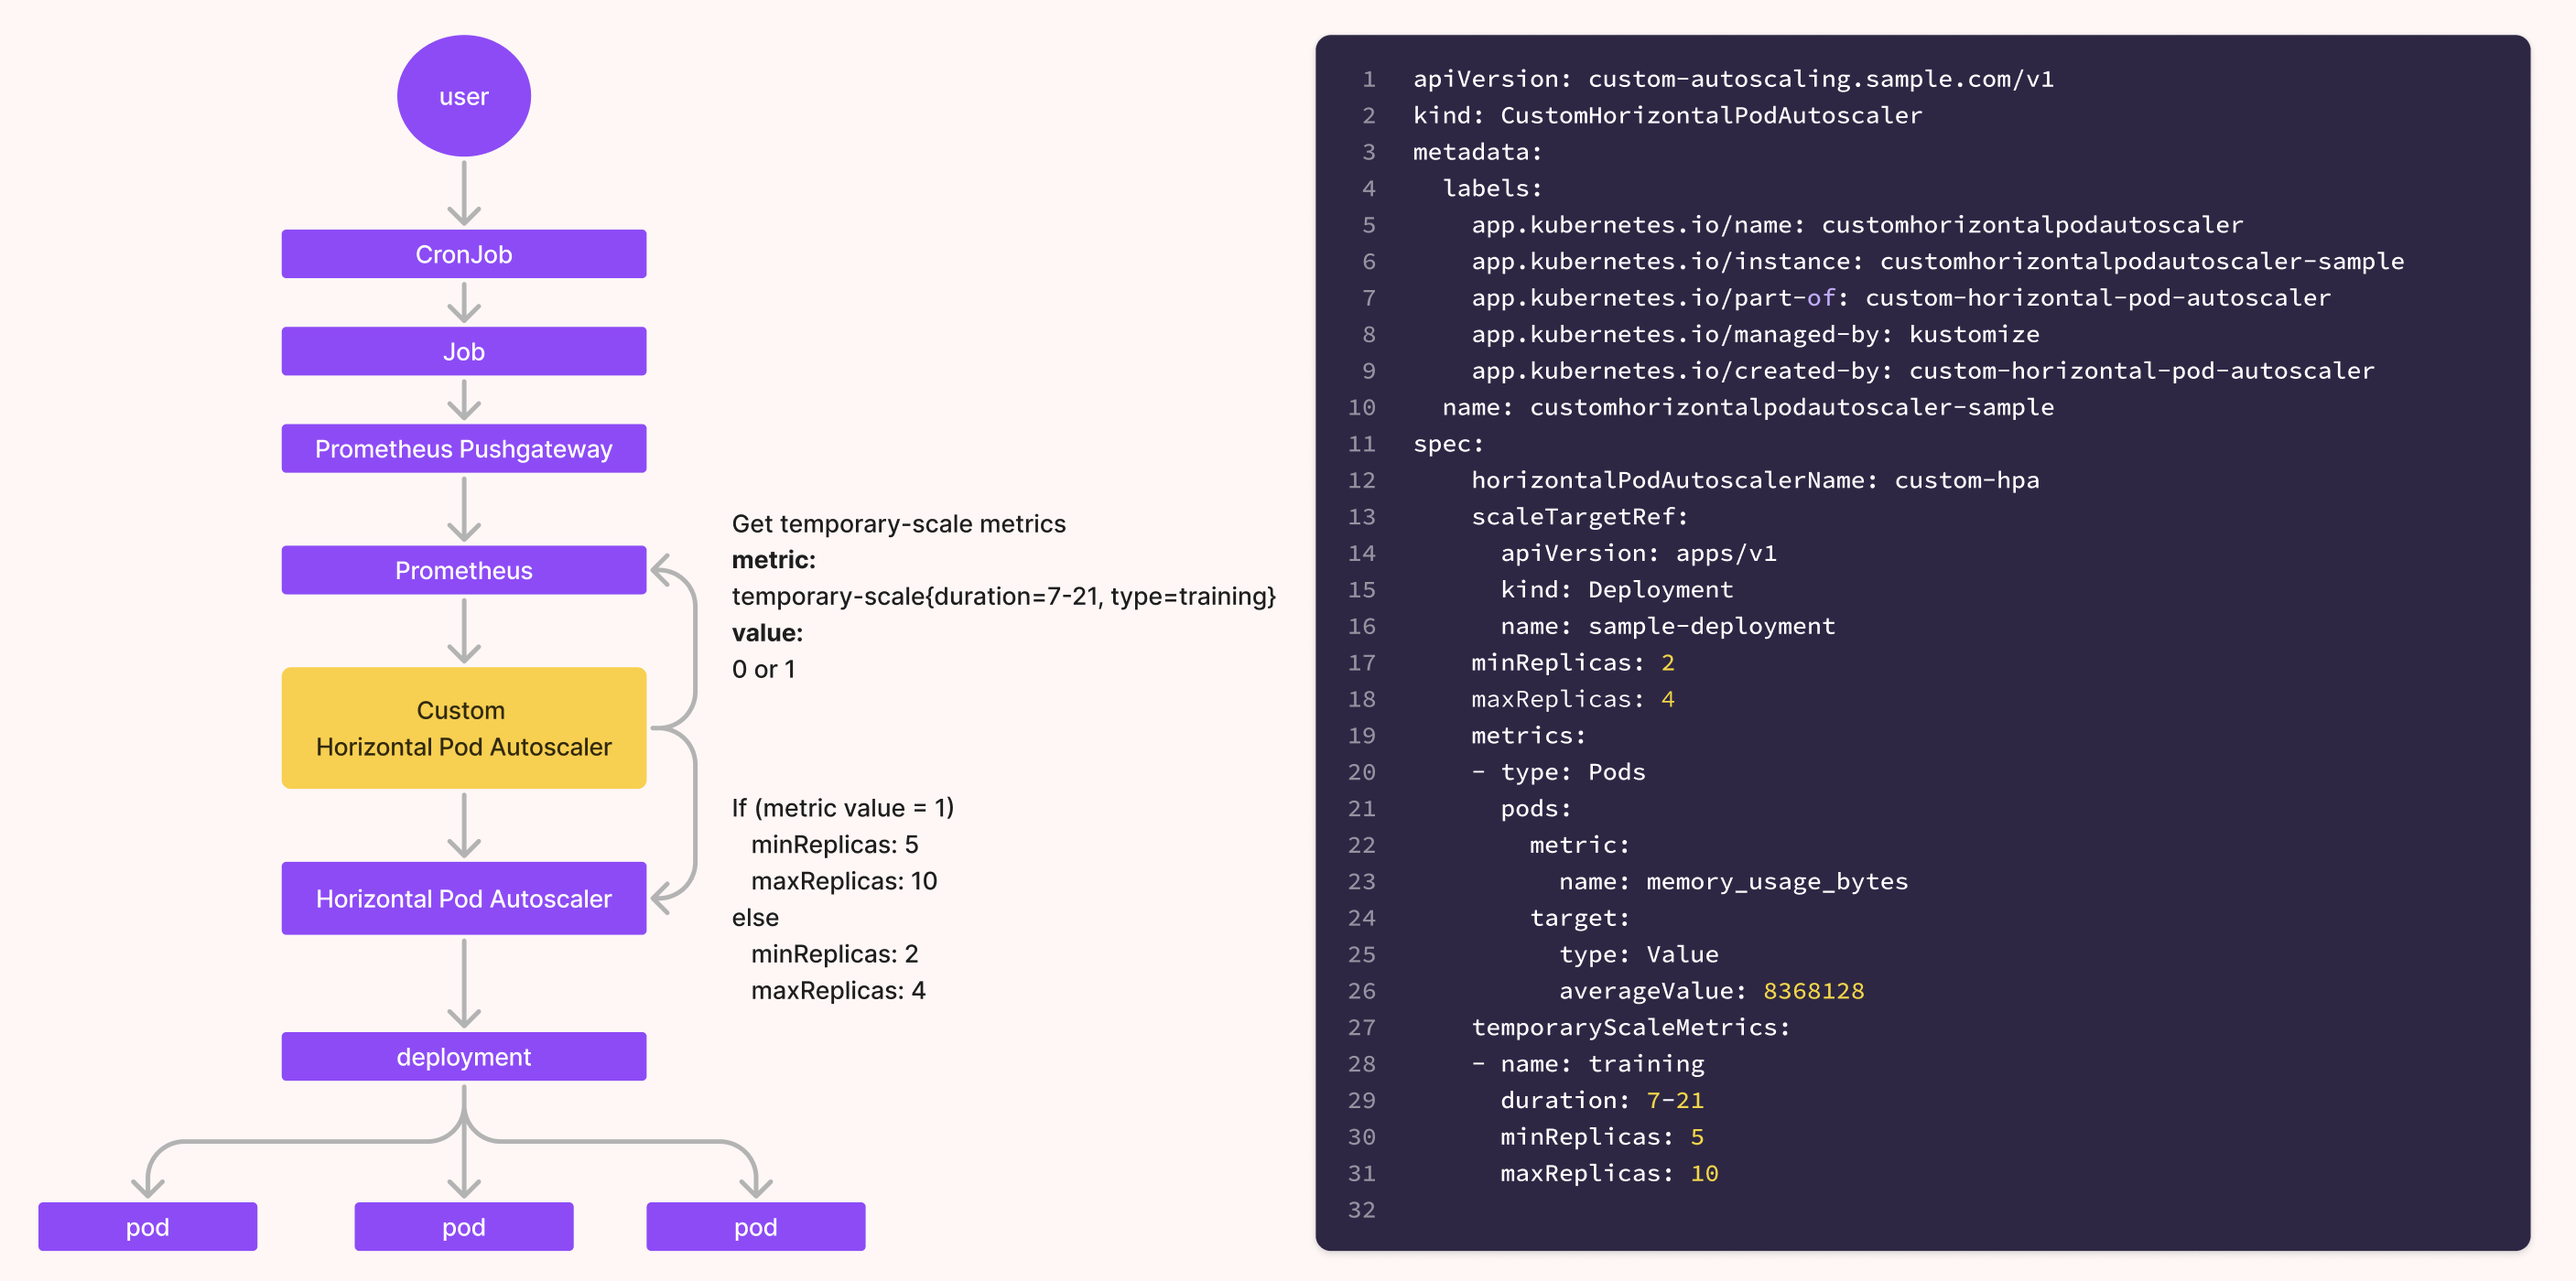
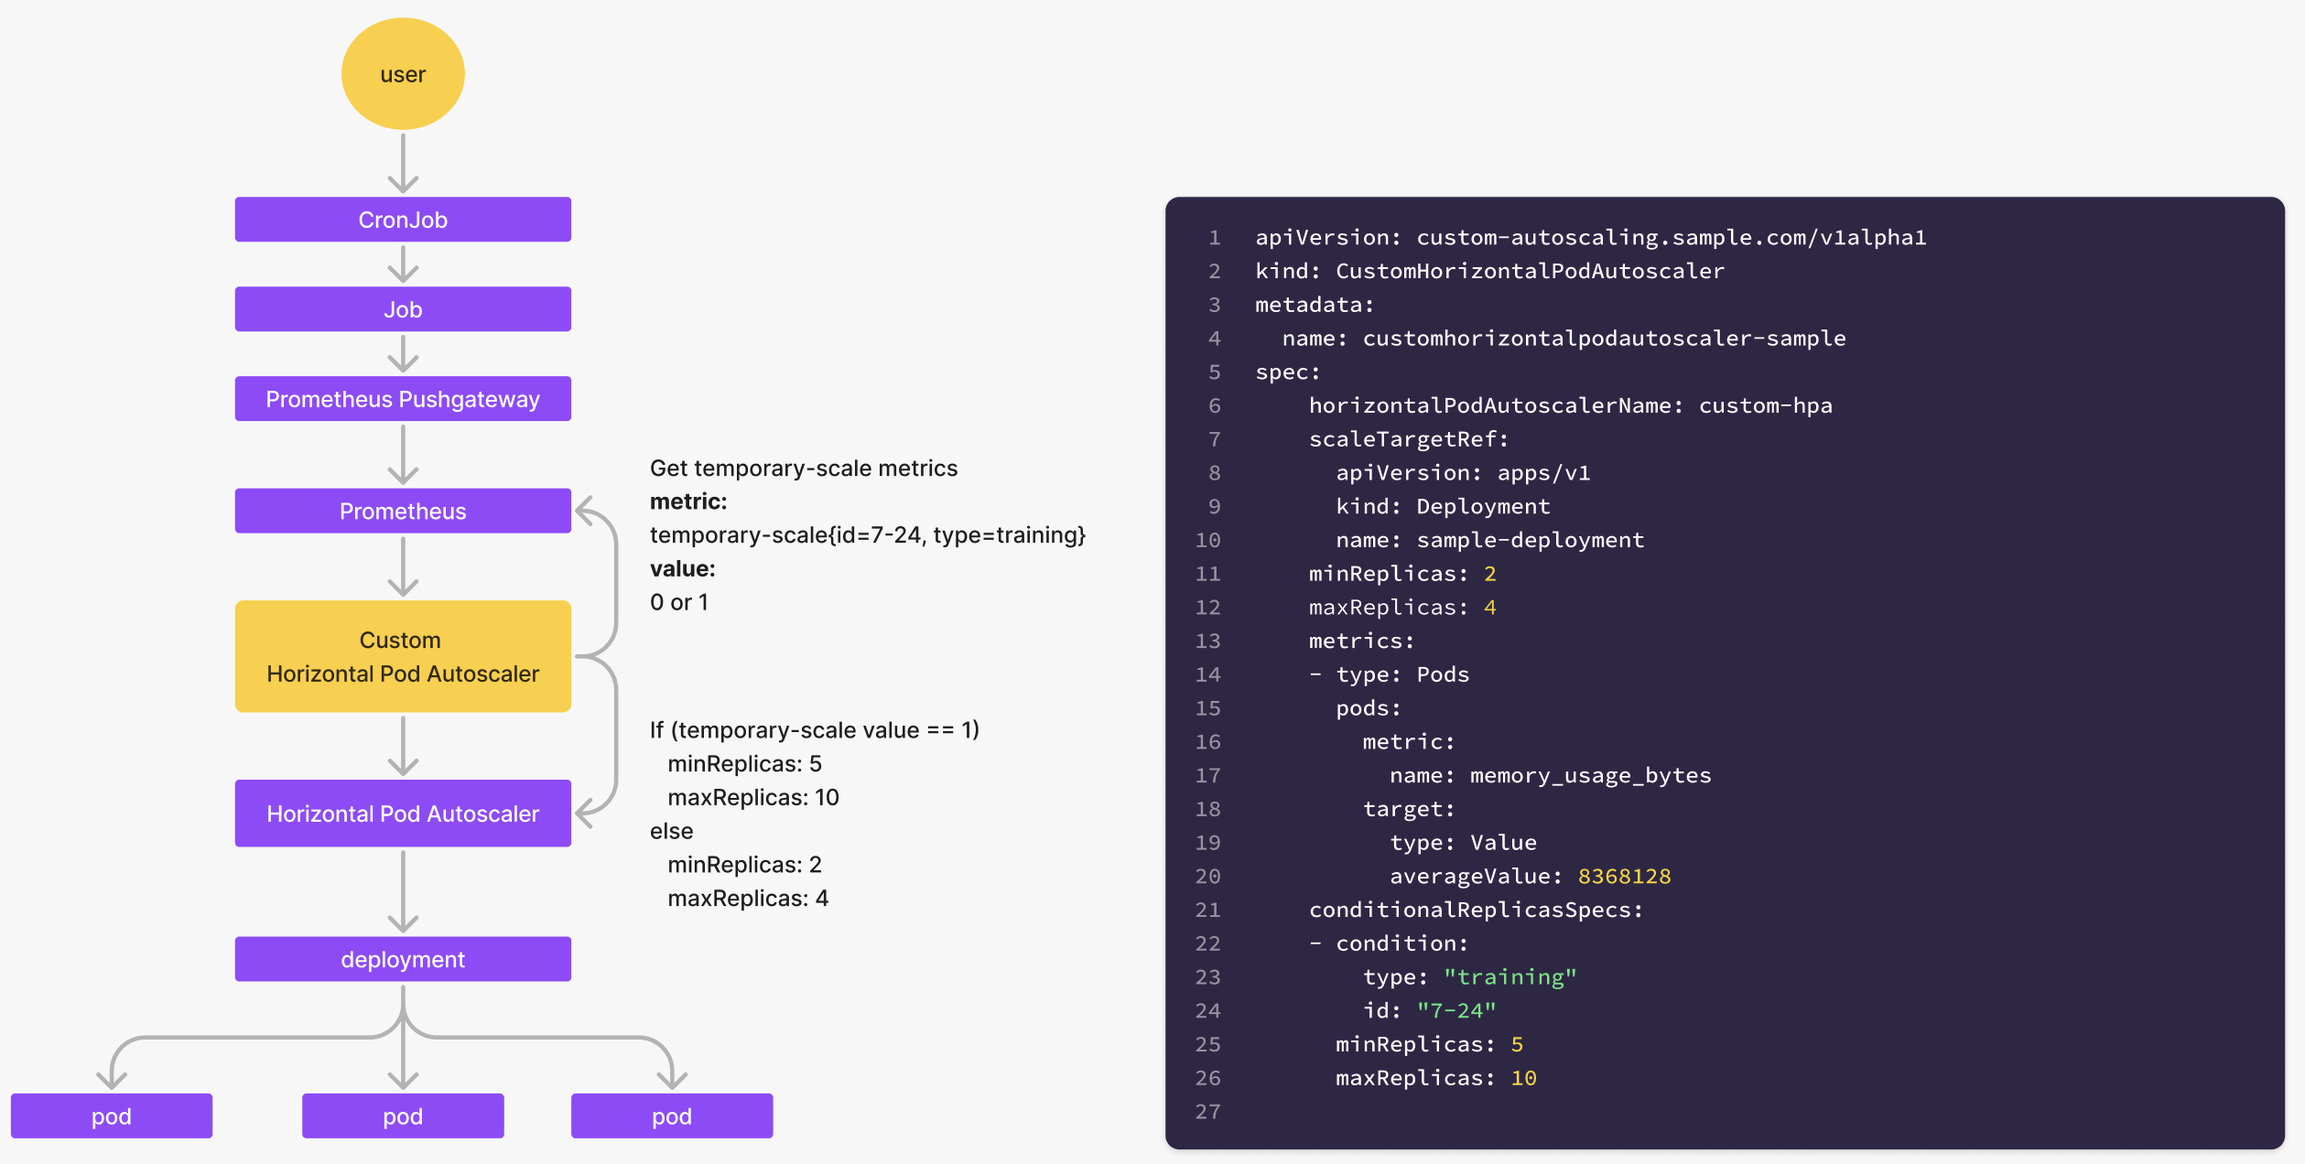
Docs/update readme (#99)

Changed region(s): [[0.0, 0.0, 0.9913, 1.0], [0.2168, 0.8892, 0.3098, 0.9811], [0.0929, 0.7972, 0.1239, 0.8585]]

diff --git a/README.md b/README.md
@@ -4,10 +4,13 @@
 ![Go Build](https://github.com/TomoyukiSugiyama/custom-horizontal-pod-autoscaler/workflows/Go%20Build/badge.svg)
 [![codecov](https://codecov.io/gh/TomoyukiSugiyama/custom-horizontal-pod-autoscaler/branch/main/graph/badge.svg?token=GHNQ0Z9TRH)](https://codecov.io/gh/TomoyukiSugiyama/custom-horizontal-pod-autoscaler)
 
-
-Custom Horizontal Pod Autoscaler is an autoscaler that allows the upper and lower limits of the number of replicas of the [Horizontal Pod Autoscaler](https://kubernetes.io/docs/tasks/run-application/horizontal-pod-autoscale/) to be changed by Prometheus metrics. It is used when temporary scaling is desired.
+Custom Horizontal Pod Autoscaler is an autoscaler that allows the minReplicas and maxReplicas of a [Horizontal Pod Autoscaler](https://kubernetes.io/docs/tasks/run-application/horizontal-pod-autoscale/) to be updated by Prometheus metrics. It is used when temporary scaling is required.
 
 ## Description
+
+The user uses CronJob to add temporary scale metrics that output 0 (disabled) or 1 (enabled). The custom horizontal pod autoscaler retrieves metrics from the prometheus.
+
+The custom horizontal pod autoscaler is set to minReplicas and maxReplicas, which are used when conditions are met. If the conditions are not met, the default minReplicas and maxReplicas will be in effect.
 
 ![description](docs/assets/description.png)
 

diff --git a/docs/architecture-diagram.md b/docs/architecture-diagram.md
@@ -1,0 +1,20 @@
+# architecture
+
+The controller consists of the following elements.
+* Custom Horizontal Pod Autoscaler: creates and updates HPAs
+* Metrics Collector: collects metrics from Prometheus
+* Syncer: Updates Desired State based on metrics
+
+Currently, only Prometheus metrics are supported.
+In the future, the configuration is designed to be easily supported by other systems besides Prometheus (Datadog, DB, ConfigMap).
+
+![architecture](assets/architecture.png)
+
+# timing chart
+
+The process runs in the following order.
+1. When the Custom HPA Controller is started, the Metrics Collector is launched as a goroutine.
+2. When the Custom HPA manifest is deployed, Syncer (which updates the HPA) is launched as a goroutine for each Namespace and Name.
+3. Update the HPA's Desired State when manifest and metrics change.
+
+![timing chart](assets/timing-chart.png)
